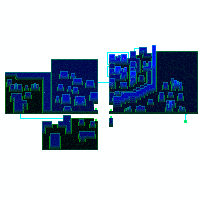
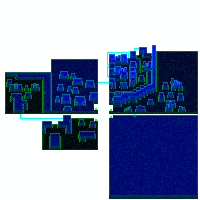
- expand the 4th area to the edge of the floor image border - move the victory tile closer to the radio tower - update the win tile x and y

Changed region(s): [[0.54, 0.57, 0.99, 1.0]]

diff --git a/Source/GameState/GameState.cpp b/Source/GameState/GameState.cpp
@@ -327,8 +327,8 @@ void GameState::render(int ticksTime) {
 		renderTextDisplay(gameTicksTime);
 
 	//TODO: real win condition
-	int winTileX = 185;
-	int winTileY = 121;
+	int winTileX = 134;
+	int winTileY = 116;
 	float px = playerState.get()->getRenderCenterWorldX(gameTicksTime);
 	float py = playerState.get()->getRenderCenterWorldY(gameTicksTime);
 	if (abs(px / MapState::tileSize - winTileX - 0.5f) <= 1.5f
